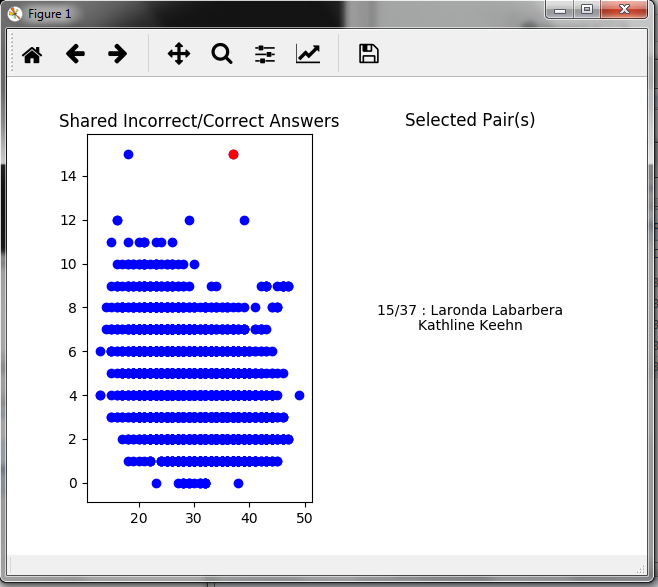
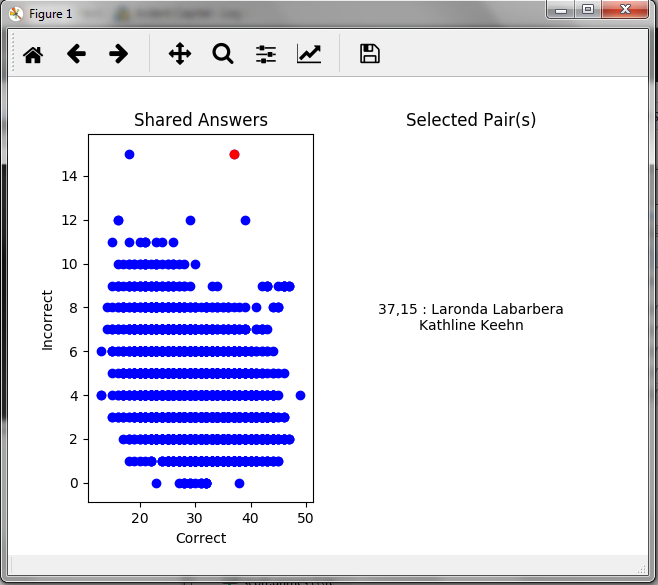
Add files via upload

diff --git a/CheatScanner.py b/CheatScanner.py
@@ -59,9 +59,9 @@ class SharedAnswers:
                     self.shared_incorrect+=1
         
         #self.label is used for printing our student pair on the graph
-        self.label = '{}/{} : {}\n{}'.format(
-            self.shared_incorrect,
+        self.label = '{},{} : {}\n{}'.format(
             self.shared_correct,
+            self.shared_incorrect,
             self.student1.name,
             self.student2.name)
         
@@ -70,8 +70,8 @@ class SharedAnswers:
         self.export = '{},{},{},{}'.format(
             self.student1.name,
             self.student2.name,
-            self.shared_incorrect,
-            self.shared_correct)
+            self.shared_correct,
+            self.shared_incorrect)
     
 def readInputFile():
     #reads in each row of our file from std.in
@@ -181,7 +181,9 @@ class graphResults():
         #displays the scatterplot of student pairs
         self.ax2.cla()
         self.ax2.scatter(self.corr,self.incorr, color = 'blue',picker = True)
-        self.ax2.title.set_text('Shared Incorrect/Correct Answers')
+        self.ax2.title.set_text('Shared Answers')
+        self.ax2.set_xlabel('Correct')
+        self.ax2.set_ylabel('Incorrect') 
         
     
 
